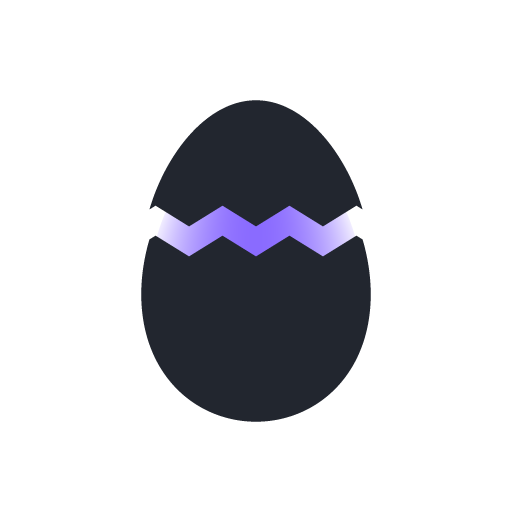
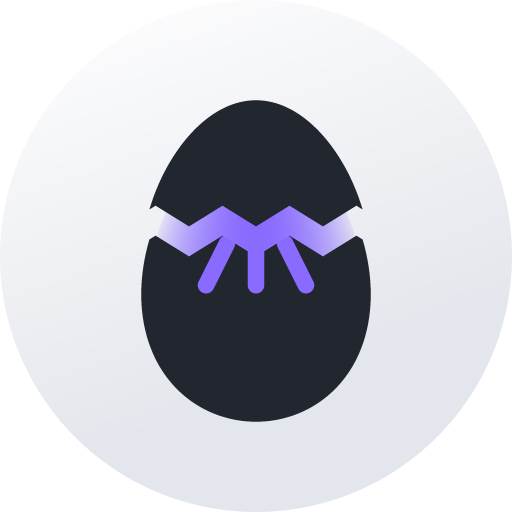
Icones novos do app, gerados como o handoff manda

Changed region(s): [[0.0938, 0.4688, 1.0, 1.0], [0.375, 0.4688, 0.625, 0.5938]]

diff --git a/apps/web/scripts/make-icons.ts b/apps/web/scripts/make-icons.ts
@@ -28,40 +28,96 @@ const HERE = dirname(fileURLToPath(import.meta.url));
 const OUT_DIR = join(HERE, "..", "public");
 
 /*
- * Fundo solido, preto ou branco. O gradiente saiu.
+ * ⚠ O TILE E O GRADIENTE DO HANDOFF, e nao o preto chapado que estava aqui.
  *
- * Instalado, o icone senta ao lado dos icones do sistema — e ali um tile com
- * gradiente roxo-azul briga com tudo em volta, ainda mais no iOS, onde o
- * conjunto e sobrio. Preto no tema escuro, branco no claro: o icone deixa de
- * competir e a marca (as tres barras) fica sendo a unica coisa que se ve.
+ * O que este bloco dizia antes: *"Fundo solido, preto ou branco. O gradiente
+ * saiu. Instalado, o icone senta ao lado dos icones do sistema — e ali um tile
+ * com gradiente roxo-azul briga com tudo em volta."*
  *
- * Cada variante tem a propria paleta, porque as barras brancas do tema escuro
- * simplesmente sumiriam no branco.
+ * Duas coisas erradas nisso. A primeira e que o handoff nao pede gradiente
+ * roxo-azul: pede `linear-gradient(160deg,#33394A,#14171E 70%)`, que e grafite
+ * indo pra quase-preto — um cinza com volume, exatamente o registro dos icones
+ * do sistema. Eu troquei uma coisa por outra e argumentei contra a que nao
+ * estava escrita. A segunda e que a troca era minha, num arquivo que o Miguel
+ * me mandou seguir; ele pediu por escrito pra eu PERGUNTAR quando o desenho
+ * conflitar, e eu improvisei.
+ *
+ * O resultado apareceu na tela inicial: preto chapado, sem quina iluminada, o
+ * ovo boiando num vazio. *"os icones novos do app ainda n estao aplicados
+ * corretamente"*.
  */
 type Tema = "dark" | "light";
 
 interface Paleta {
-  readonly bg: readonly [number, number, number];
+  /** As duas paradas do tile, do handoff. A 0% e a 70%. */
+  readonly tile0: readonly [number, number, number];
+  readonly tile1: readonly [number, number, number];
   /** A casca do ovo. */
   readonly casca: readonly [number, number, number];
   /** A luz que escapa pela fenda. */
   readonly luz: readonly [number, number, number];
+  /**
+   * Forca da quina iluminada. O handoff pede
+   * `inset 0 1.5px 1px rgba(255,255,255,.22)` — luz branca no escuro; no tile
+   * claro a mesma luz branca nao aparece, entao la a quina ESCURECE de leve,
+   * que e o que da relevo sobre branco.
+   */
+  readonly quina: readonly [number, number, number];
+  readonly quinaAlfa: number;
+  /**
+   * Onde a quina aparece. `-1` = luz na aresta de cima (tile escuro, luz do
+   * ambiente batendo por cima). `+1` = sombra na de baixo — no tile claro uma
+   * luz branca sobre branco nao existe, e o que da relevo e a aresta de baixo
+   * escurecendo.
+   */
+  readonly quinaLado: -1 | 1;
 }
 
 const PALETAS: Record<Tema, Paleta> = {
-  // Preto puro, nao o `--tk-bg` (#07080b): no icone, um preto quase-preto
-  // aparece como um cinza sujo ao lado dos icones vizinhos.
   dark: {
-    bg: [0x00, 0x00, 0x00],
+    tile0: [0x33, 0x39, 0x4a], // #33394A
+    tile1: [0x14, 0x17, 0x1e], // #14171E
     casca: [0xf4, 0xf6, 0xfa], // #F4F6FA, do handoff
     luz: [0x6e, 0x4b, 0xff], // #6E4BFF
+    quina: [0xff, 0xff, 0xff],
+    quinaAlfa: 0.22, // rgba(255,255,255,.22), do handoff
+    quinaLado: -1,
   },
   light: {
-    bg: [0xff, 0xff, 0xff],
+    tile0: [0xff, 0xff, 0xff], // #FFFFFF
+    tile1: [0xe3, 0xe6, 0xec], // #E3E6EC
     casca: [0x22, 0x26, 0x2f], // #22262F, a versao de fundo claro
     luz: [0x8a, 0x6b, 0xff], // #8A6BFF
+    quina: [0x8f, 0x96, 0xa6],
+    quinaAlfa: 0.45,
+    quinaLado: 1,
   },
 };
+
+/**
+ * A cor do tile naquele ponto — `linear-gradient(160deg, tile0, tile1 70%)`.
+ *
+ * 160deg no CSS e o ANGULO DA DIRECAO medido a partir de "pra cima", no sentido
+ * horario. O vetor sai `(sen 160, -cos 160)` = `(0.342, 0.940)`, ou seja
+ * levemente pra direita e bastante pra baixo. E o eixo do degrade vai de canto a
+ * canto da caixa projetada nesse vetor, e nao de borda a borda — por isso a
+ * normalizacao usa `|sen| + |cos|`.
+ */
+function tileAt(u: number, v: number, paleta: Paleta): readonly [number, number, number] {
+  const rad = (160 * Math.PI) / 180;
+  const dx = Math.sin(rad);
+  const dy = -Math.cos(rad);
+  const comprimento = Math.abs(dx) + Math.abs(dy);
+  // Projecao do ponto no eixo, trazida de [-L/2, L/2] pra [0, 1].
+  const bruto = ((u - 0.5) * dx + (v - 0.5) * dy) / comprimento + 0.5;
+  // A parada final e 70%: depois dela o degrade e chapado.
+  const t = Math.max(0, Math.min(1, bruto / 0.7));
+  return [
+    paleta.tile0[0] + (paleta.tile1[0] - paleta.tile0[0]) * t,
+    paleta.tile0[1] + (paleta.tile1[1] - paleta.tile0[1]) * t,
+    paleta.tile0[2] + (paleta.tile1[2] - paleta.tile0[2]) * t,
+  ] as const;
+}
 
 const crcTable = (() => {
   const t = new Uint32Array(256);
@@ -197,11 +253,41 @@ function alturaDaFenda(u: number, dentes: number, amp: number): number {
   return FENDA + amp * onda;
 }
 
+/** Distancia de um ponto a um segmento, pros raios de luz. */
+function distSegmento(
+  u: number,
+  v: number,
+  ax: number,
+  ay: number,
+  bx: number,
+  by: number,
+): number {
+  const vx = bx - ax;
+  const vy = by - ay;
+  const t = Math.max(0, Math.min(1, ((u - ax) * vx + (v - ay) * vy) / (vx * vx + vy * vy)));
+  return Math.hypot(u - (ax + vx * t), v - (ay + vy * t));
+}
+
+/*
+ * Os tres raios que descem da fenda, do SVG do handoff:
+ * `M20.5 22.5l-2.5 5  M27.5 22.5l2.5 5  M24 21.5v6`, traco 2, ponta redonda.
+ * Dividido por 48 pra virar coordenada normalizada. Eles abrem em leque —
+ * e o que faz a luz parecer VINDO de dentro do ovo em vez de pousada em cima.
+ */
+const RAIOS = [
+  [0.427, 0.469, 0.375, 0.573],
+  [0.573, 0.469, 0.625, 0.573],
+  [0.5, 0.448, 0.5, 0.573],
+] as const;
+/** Metade do traco de 2 em 48. */
+const RAIO_ESPESSURA = 1 / 48;
+
 function ovoAt(
   u: number,
   v: number,
   simples: boolean,
   paleta: Paleta,
+  fundo: readonly [number, number, number],
 ): readonly [number, number, number] | null {
   const dentes = simples ? 2.2 : 3.4;
   const amp = simples ? 0.016 : 0.026;
@@ -222,7 +308,18 @@ function ovoAt(
   const fenda = alturaDaFenda(u, dentes, amp);
 
   // Metade de BAIXO: o ovo normal, do zigue-zague pra baixo.
-  if (v >= fenda && dentroDoOvo(u, v)) return paleta.casca;
+  if (v >= fenda && dentroDoOvo(u, v)) {
+    // Os raios sao pintados SOBRE a casca de baixo — luz batendo por dentro.
+    // Nos tamanhos pequenos eles nao entram: com 2/48 de traco, a 32px cada
+    // raio tem 1,3 pixel e os tres viram uma mancha roxa unica sobre a casca,
+    // que le como sujeira. Mesma regra do zigue-zague.
+    if (!simples) {
+      for (const [ax, ay, bx, by] of RAIOS) {
+        if (distSegmento(u, v, ax, ay, bx, by) <= RAIO_ESPESSURA) return paleta.luz;
+      }
+    }
+    return paleta.casca;
+  }
 
   // Metade de CIMA: desenhada a partir de um ponto `LEVANTA` mais abaixo, que e
   // o que a faz aparecer levantada. O teste da fenda usa o MESMO ponto de
@@ -250,9 +347,9 @@ function ovoAt(
     const forca = Math.max(0, 1 - lateral * lateral);
     if (forca < 0.12) return null;
     return [
-      Math.round(paleta.bg[0] + (paleta.luz[0] - paleta.bg[0]) * forca),
-      Math.round(paleta.bg[1] + (paleta.luz[1] - paleta.bg[1]) * forca),
-      Math.round(paleta.bg[2] + (paleta.luz[2] - paleta.bg[2]) * forca),
+      fundo[0] + (paleta.luz[0] - fundo[0]) * forca,
+      fundo[1] + (paleta.luz[1] - fundo[1]) * forca,
+      fundo[2] + (paleta.luz[2] - fundo[2]) * forca,
     ] as const;
   }
 
@@ -267,7 +364,8 @@ function renderIcon(size: number, maskable: boolean, tema: Tema): Uint8Array {
   // borda. Entao o tile ocupa tudo e o monograma encolhe pro centro.
   const inset = maskable ? 0 : size * 0.06;
   const half = size / 2 - inset;
-  const radius = maskable ? size / 2 : size * 0.235; // raio = 1/3 do lado (prototipo)
+  // 30/112 do handoff — o mesmo raio que ele usa no tile grande, 112/418.
+  const radius = maskable ? size / 2 : size * (30 / 112);
   const monoScale = maskable ? 0.78 : 1;
   // Abaixo disto o zigue-zague nao cabe em pixel nenhum. Ver `alturaDaFenda`:
   // com 3,4 dentes a 32px cada um tem menos de um pixel de base e a quebra vira
@@ -285,9 +383,10 @@ function renderIcon(size: number, maskable: boolean, tema: Tema): Uint8Array {
       const coverage = Math.max(0, Math.min(1, 0.5 - d));
       if (coverage <= 0) continue;
 
-      let r: number = paleta.bg[0];
-      let g: number = paleta.bg[1];
-      let b: number = paleta.bg[2];
+      const fundo = tileAt(px / size, py / size, paleta);
+      let r: number = fundo[0];
+      let g: number = fundo[1];
+      let b: number = fundo[2];
 
       // A marca por cima, com antialias por supersampling 4x4. Quatro amostras
       // bastavam pro monograma, que era todo reto; a ponta da barra decisiva e
@@ -300,7 +399,7 @@ function renderIcon(size: number, maskable: boolean, tema: Tema): Uint8Array {
         for (const ox of [-0.375, -0.125, 0.125, 0.375]) {
           const u = (px + ox - size / 2) / (size * monoScale) + 0.5;
           const w = (py + oy - size / 2) / (size * monoScale) + 0.5;
-          const color = ovoAt(u, w, simple, paleta);
+          const color = ovoAt(u, w, simple, paleta, fundo);
           if (!color) continue;
           hits++;
           mr += color[0];
@@ -313,6 +412,44 @@ function renderIcon(size: number, maskable: boolean, tema: Tema): Uint8Array {
         r = r * (1 - a) + (mr / hits) * a;
         g = g * (1 - a) + (mg / hits) * a;
         b = b * (1 - a) + (mb / hits) * a;
+      }
+
+      /*
+       * A QUINA ILUMINADA, que e o que separa um tile de um quadrado pintado.
+       *
+       * O handoff pede duas coisas: `border: .5px solid rgba(255,255,255,.14)`
+       * em volta inteira, e `inset 0 1.5px 1px rgba(255,255,255,.22)` — uma luz
+       * empurrada 1,5px PRA BAIXO e recortada por dentro, que por isso so
+       * aparece na aresta de CIMA. E a luz do ambiente batendo na quina, o
+       * mesmo truque dos icones do iOS.
+       *
+       * Aqui a segunda sai deslocando a forma e perguntando onde ela ja saiu:
+       * amostrar 1,5px acima equivale a baixar o retangulo. Onde o deslocado ja
+       * e de fora mas o real ainda e de dentro, tem luz.
+       */
+      if (!maskable) {
+        const escala = size / 112; // o tile do handoff mede 112
+        // A borda fina: o que esta dentro da forma mas fora dela encolhida.
+        const dentro = Math.max(0, Math.min(1, 0.5 - (d + 0.5 * escala)));
+        const borda = coverage - dentro;
+        // A luz da quina: a forma empurrada `quinaLado` * 1,5px.
+        const dQuina = roundedRectSdf(
+          px,
+          py - paleta.quinaLado * 1.5 * escala,
+          size / 2,
+          size / 2,
+          half,
+          half,
+          radius,
+        );
+        const faixa = Math.max(escala, 0.5);
+        const quina =
+          Math.max(0, Math.min(1, (dQuina + 0.5 * escala) / faixa)) * coverage;
+
+        const a = Math.min(1, borda * 0.14 + quina * paleta.quinaAlfa);
+        r = r * (1 - a) + paleta.quina[0] * a;
+        g = g * (1 - a) + paleta.quina[1] * a;
+        b = b * (1 - a) + paleta.quina[2] * a;
       }
 
       rgba[i] = Math.round(r);

diff --git a/apps/web/index.html b/apps/web/index.html
@@ -23,15 +23,14 @@
     <meta name="apple-mobile-web-app-capable" content="yes" />
     <meta name="apple-mobile-web-app-status-bar-style" content="black-translucent" />
     <meta name="apple-mobile-web-app-title" content="TrainerKit" />
-    <!-- Escuro e o padrao: e como o app abre, e e o `background_color` do
-         manifest. O iOS copia UM arquivo na hora de instalar e nao volta a
-         olhar, entao o icone instalado nao muda depois — o `media` aqui so
-         decide qual e copiado, quando o Safari o respeita. -->
-    <link
-      rel="apple-touch-icon"
-      href="/apple-touch-icon-light.png"
-      media="(prefers-color-scheme: light)"
-    />
+    <!-- ⚠ UM SO `apple-touch-icon`, e o escuro. A variante clara com `media`
+         estava aqui e foi TIRADA: o iOS copia UM arquivo na hora de instalar e
+         nunca mais olha, entao quem instalasse de dia levava pra sempre o tile
+         branco — foi exatamente o que apareceu na tela inicial do Miguel, um
+         quadrado branco com um ovo preto dentro, enquanto o app abre no escuro.
+         O `media` nao "escolhe melhor", ele sorteia pelo horario da instalacao.
+         O claro continua sendo gerado e continua servindo o favicon, que esse
+         sim troca sozinho. -->
     <link rel="apple-touch-icon" href="/apple-touch-icon.png" />
 
     <!-- Dois tamanhos renderizados NO tamanho, nao encolhidos do 512: a marca
